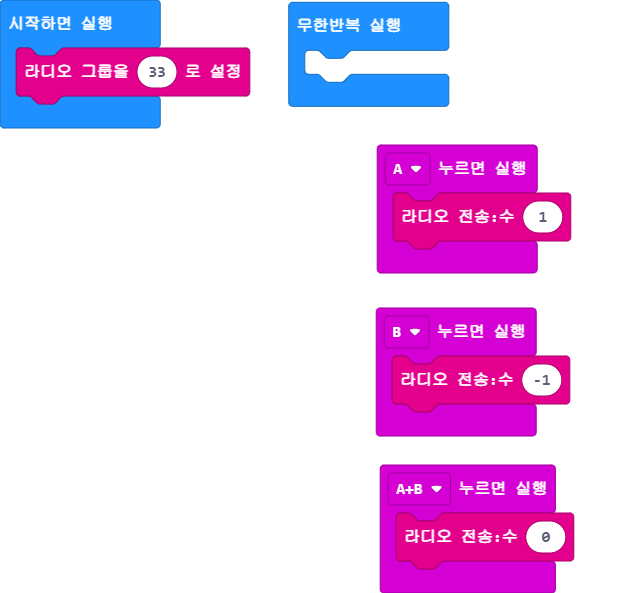
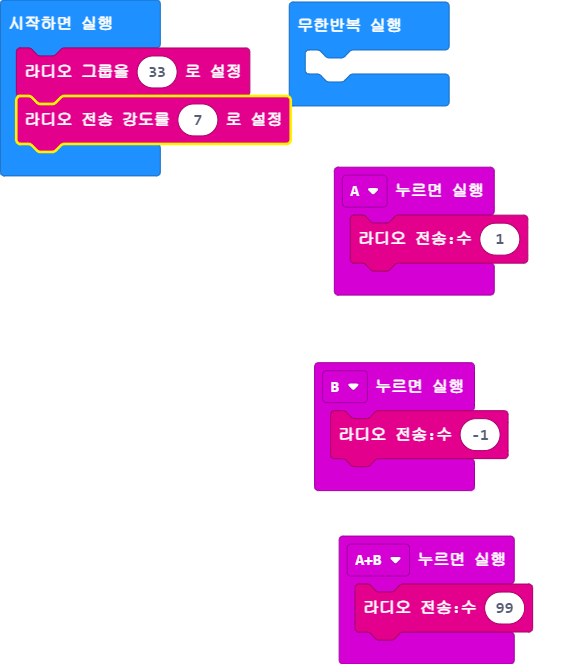
main.blocks, main.ts, main.py 업데이트하기

Changed region(s): [[0.0, 0.0, 0.7692, 0.2732], [0.5231, 0.516, 0.9231, 1.0], [0.5538, 0.2428, 0.9231, 0.4857]]

diff --git a/main.ts b/main.ts
@@ -2,12 +2,13 @@ input.onButtonPressed(Button.A, function () {
     radio.sendNumber(1)
 })
 input.onButtonPressed(Button.AB, function () {
-    radio.sendNumber(0)
+    radio.sendNumber(99)
 })
 input.onButtonPressed(Button.B, function () {
     radio.sendNumber(-1)
 })
 radio.setGroup(33)
+radio.setTransmitPower(7)
 basic.forever(function () {
 	
 })

diff --git a/main.py b/main.py
@@ -1,17 +1,5 @@
-def on_button_pressed_a():
-    radio.send_value("counter", 1)
-input.on_button_pressed(Button.A, on_button_pressed_a)
-
-def on_button_pressed_ab():
-    radio.send_value("counter", 0)
-input.on_button_pressed(Button.AB, on_button_pressed_ab)
-
-def on_button_pressed_b():
-    radio.send_value("counter", -1)
-input.on_button_pressed(Button.B, on_button_pressed_b)
-
 radio.set_group(33)
 
 def on_forever():
-    basic.show_number(input.sound_level())
+    pass
 basic.forever(on_forever)
